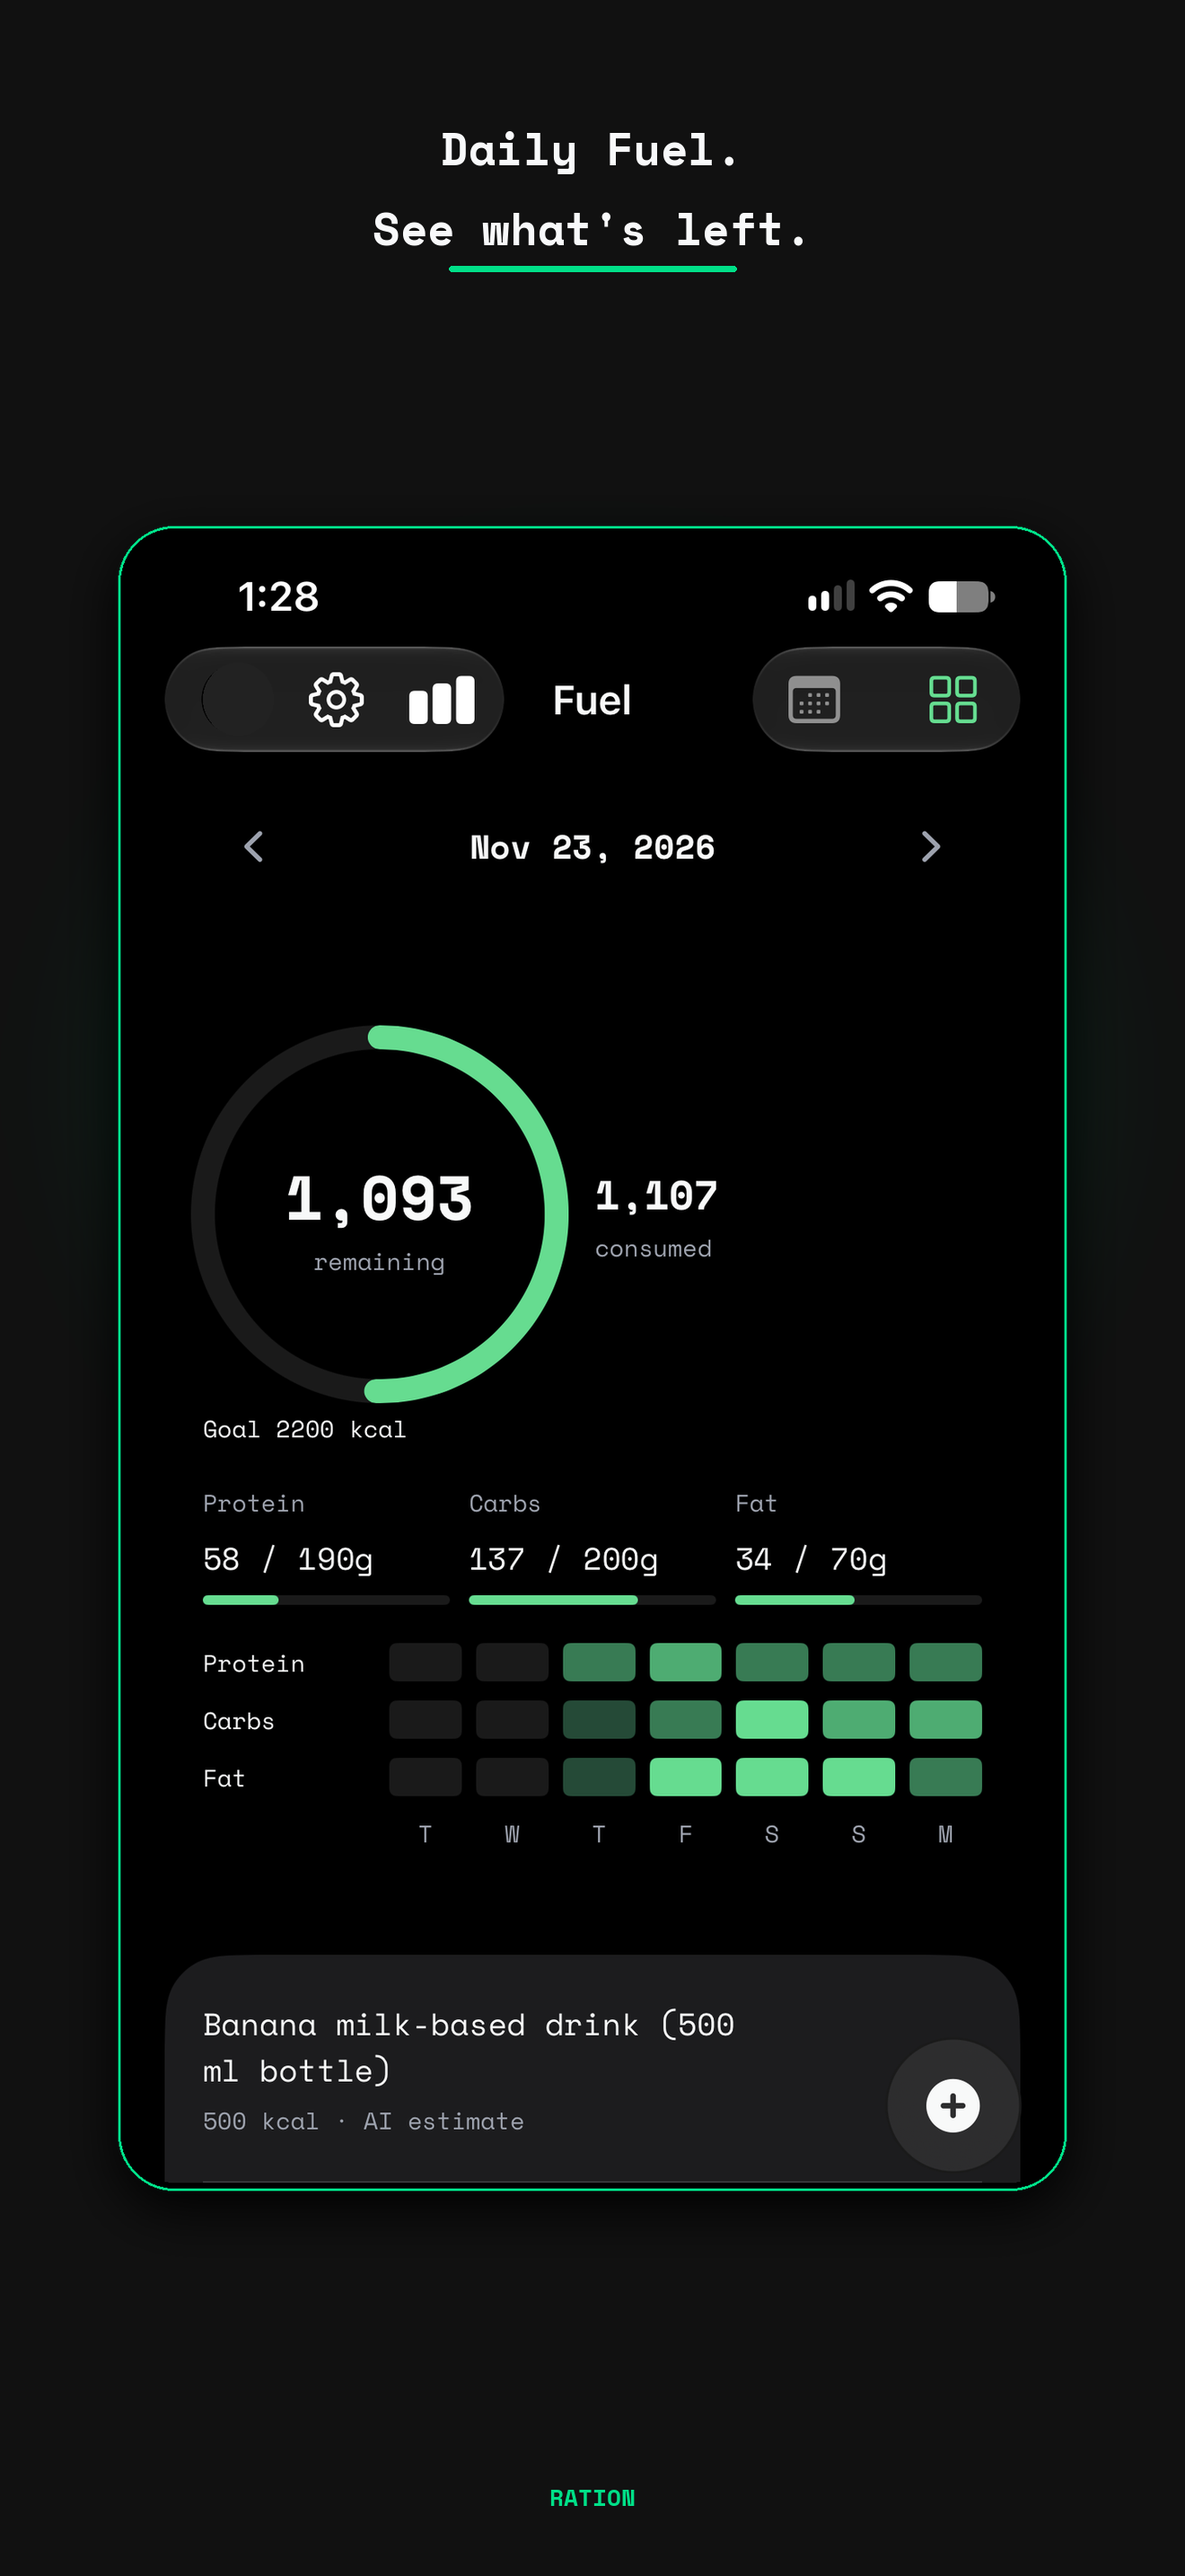
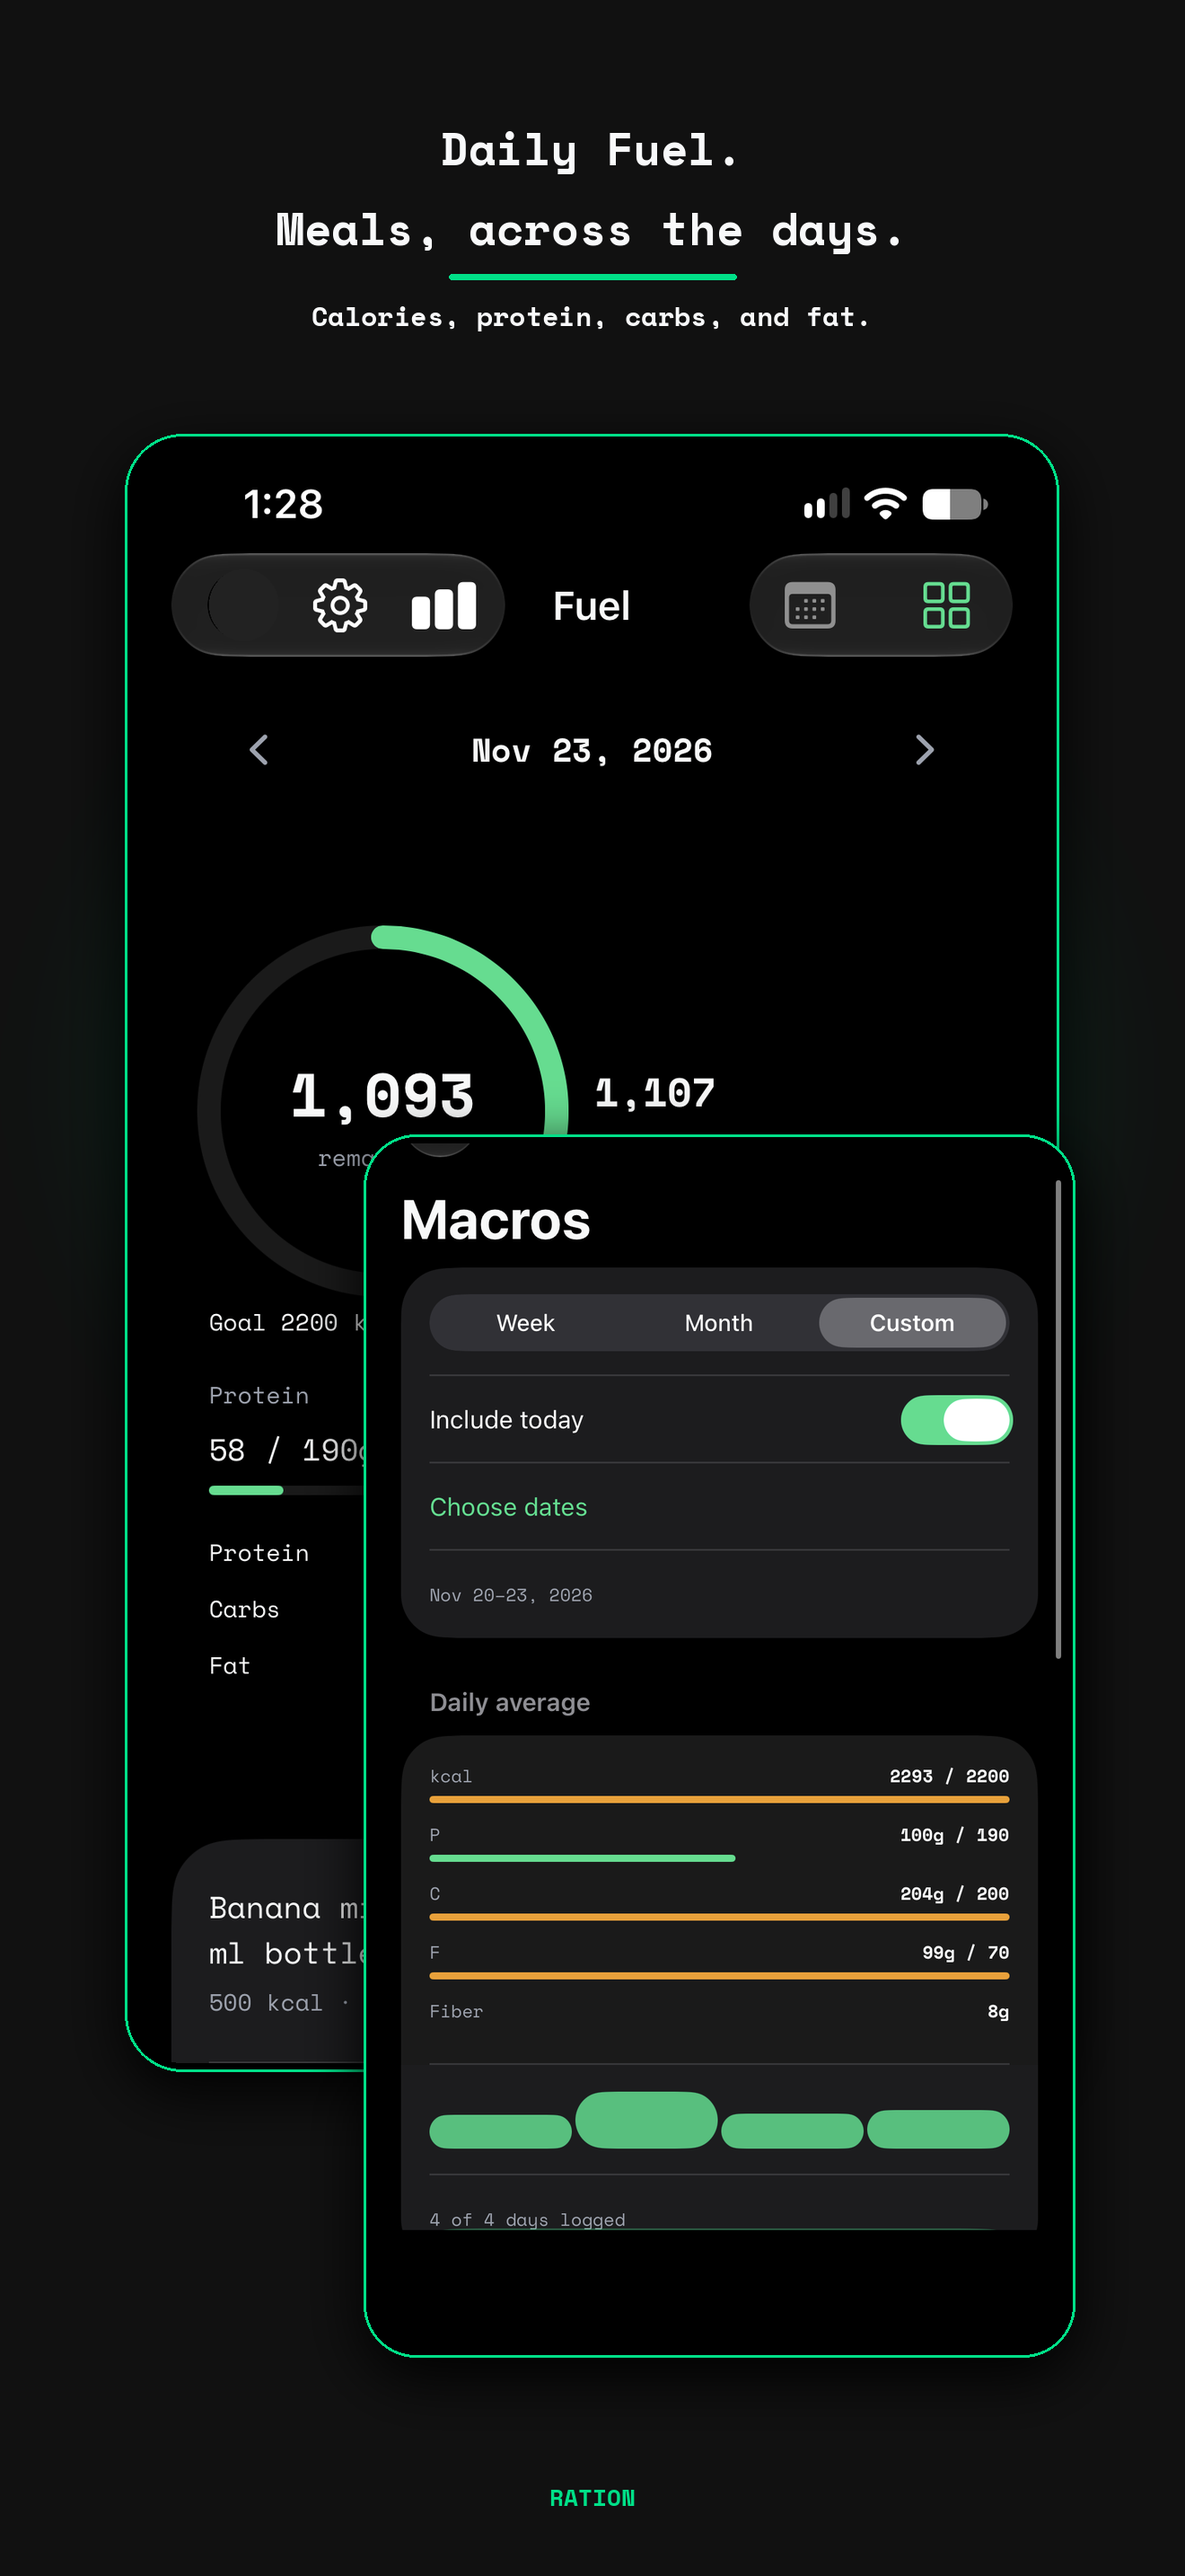
Revamp the iOS 1.6 App Store screenshots
Docs: marketing/appstore/uk/STORYBOARD.md and UPLOAD.md for the revamped 1.6 screenshot set

diff --git a/marketing/appstore/uk/STORYBOARD.md b/marketing/appstore/uk/STORYBOARD.md
@@ -1,21 +1,21 @@
 # iOS 1.6 screenshot set — upload this
 
-App Store Connect → Media Manager → **iPhone 6.9" Display**. Upload only [`framed/6.9/1.6/`](framed/6.9/1.6/), in this order. Each file is **1320×2868** PNG, RGB, no alpha. Apple shows the first three in search.
+App Store Connect → Media Manager → **iPhone 6.9" Display**. Upload only [`framed/6.9/1.6/`](framed/6.9/1.6/), in this order. Each file is **1320×2868** PNG, RGB, no alpha. Apple shows the first three in search. The filename order is unchanged. Search still gets the job, then the AI choice, then the import.
 
 | Order | File | Caption |
 |------:|------|---------|
-| 1 | [`01-daily-fuel.png`](framed/6.9/1.6/01-daily-fuel.png) | Daily Fuel. / See what's left. |
-| 2 | [`02-agent-sets-fuel.png`](framed/6.9/1.6/02-agent-sets-fuel.png) | Your agent sets / Daily Fuel. You confirm. |
-| 3 | [`03-import.png`](framed/6.9/1.6/03-import.png) | Save recipes from / TikTok, Reels & the web |
-| 4 | [`04-scan.png`](framed/6.9/1.6/04-scan.png) | Scan a receipt / or the fridge |
-| 5 | [`05-galley.png`](framed/6.9/1.6/05-galley.png) | See what you can cook / with what's here |
-| 6 | [`06-manifest.png`](framed/6.9/1.6/06-manifest.png) | Plan the week. / AI fills the days. |
-| 7 | [`07-supply.png`](framed/6.9/1.6/07-supply.png) | Shop only what / you're still missing |
-| 8 | [`08-hub.png`](framed/6.9/1.6/08-hub.png) | The whole kitchen. / One screen. |
+| 1 | [`01-daily-fuel.png`](framed/6.9/1.6/01-daily-fuel.png) | Daily Fuel. / Meals, across the days. |
+| 2 | [`02-agent-sets-fuel.png`](framed/6.9/1.6/02-agent-sets-fuel.png) | Any agent can run it. / Or use the one inside. |
+| 3 | [`03-import.png`](framed/6.9/1.6/03-import.png) | Save it from the video. / TikTok, Reels, and the web. |
+| 4 | [`04-scan.png`](framed/6.9/1.6/04-scan.png) | Scan the receipt. / The cupboard updates. |
+| 5 | [`05-galley.png`](framed/6.9/1.6/05-galley.png) | Cook from what's here. / Matched to the cupboard. |
+| 6 | [`06-manifest.png`](framed/6.9/1.6/06-manifest.png) | The week's meals. / For everyone in the kitchen. |
+| 7 | [`07-supply.png`](framed/6.9/1.6/07-supply.png) | The list writes itself. / From the meals you planned. |
+| 8 | [`08-hub.png`](framed/6.9/1.6/08-hub.png) | The whole kitchen. / Stock, meals, and today. |
 
-Slide 3 is the existing TikTok import frame, copied unchanged from `framed/6.9/03-import.png`. Slides 4 and 5 are the existing scan and galley frames. Slide 2 keeps the confirmation chat and adds one Space Mono line, with no logos: `Use Grok, Hermes, Dots, or Claude.` Slide 6 is the current week Manifest. Slide 7 is the existing supply frame with a cutout of Saved lists (Staples, Pets, Household Goods). Slide 8 is the Hub screen. `08-your-agent.png` is not in this set.
+Slide 1 is today's Fuel log, with the Macros screen over it: week, month, or a custom range, the daily average, and how many days were logged. The line under the rule says what the words mean: `Calories, protein, carbs, and fat.` Slide 2 shows the choice. A person's own agent can run the kitchen, and Ask Ration is the assistant inside the app. The names under the rule are type only, with no logos: `Grok · Hermes · Dots · Claude.` Slide 3 keeps the TikTok import photograph and replaces the caption. Slide 4 is the receipt scan, through to the file upload. Slide 5 is Galley, meals matched to what is in the cupboard. Slide 6 is one week for the people who share the kitchen. Slide 7 is the supply list the plan writes. The line under the rule is `Share it, or send it out.` Slide 8 is the Hub: stock, meals, and today.
 
-Leave these in the repo and do **not** upload them for 1.6 (same names under `framed/6.5/` as well): `01-hub.png`, `02-macros.png`, `06-plan.png`, `09-ask.png`, `10-theme.png`. The new Hub frame is `framed/6.9/1.6/08-hub.png`, not the older `01-hub.png`.
+Leave these in the repo and do **not** upload them for 1.6 (same names under `framed/6.5/` as well): `01-hub.png`, `02-macros.png`, `06-plan.png`, `09-ask.png`, `10-theme.png`. The Hub frame for this set is `framed/6.9/1.6/08-hub.png`, not the older `01-hub.png`.
 
 # Previous storyboard — English (U.K.)
 

diff --git a/marketing/appstore/uk/UPLOAD.md b/marketing/appstore/uk/UPLOAD.md
@@ -4,18 +4,20 @@
 
 Upload [`framed/6.9/1.6/`](framed/6.9/1.6/) into **iPhone 6.9" Display**. Do not upload `framed/6.5/` for this submission, and do not upload the older `framed/6.9/01-hub.png` … `10-theme.png` set.
 
-| Order | File | Pixels |
-|------:|------|--------|
-| 1 | `01-daily-fuel.png` | 1320×2868 |
-| 2 | `02-agent-sets-fuel.png` | 1320×2868 |
-| 3 | `03-import.png` | 1320×2868 |
-| 4 | `04-scan.png` | 1320×2868 |
-| 5 | `05-galley.png` | 1320×2868 |
-| 6 | `06-manifest.png` | 1320×2868 |
-| 7 | `07-supply.png` | 1320×2868 |
-| 8 | `08-hub.png` | 1320×2868 |
+The filename order is the upload order. It stays in this order because the first three are what search shows: the job, the AI choice, then the import.
 
-PNG, RGB, no alpha. `03-import.png` is the existing TikTok import frame. `02-agent-sets-fuel.png` adds `Use Grok, Hermes, Dots, or Claude.` under the headline, in type only. `06-manifest.png` is the current week Manifest. `07-supply.png` is the existing supply frame plus a Saved lists cutout. `08-hub.png` is the Hub screen. Do not upload `08-your-agent.png`.
+| Order | File | Caption | Pixels |
+|------:|------|---------|--------|
+| 1 | `01-daily-fuel.png` | Daily Fuel. / Meals, across the days. | 1320×2868 |
+| 2 | `02-agent-sets-fuel.png` | Any agent can run it. / Or use the one inside. | 1320×2868 |
+| 3 | `03-import.png` | Save it from the video. / TikTok, Reels, and the web. | 1320×2868 |
+| 4 | `04-scan.png` | Scan the receipt. / The cupboard updates. | 1320×2868 |
+| 5 | `05-galley.png` | Cook from what's here. / Matched to the cupboard. | 1320×2868 |
+| 6 | `06-manifest.png` | The week's meals. / For everyone in the kitchen. | 1320×2868 |
+| 7 | `07-supply.png` | The list writes itself. / From the meals you planned. | 1320×2868 |
+| 8 | `08-hub.png` | The whole kitchen. / Stock, meals, and today. | 1320×2868 |
+
+PNG, RGB, no alpha. Slide 1 adds `Calories, protein, carbs, and fat.` Slide 2 names `Grok · Hermes · Dots · Claude` in type only, and shows Ask Ration beside the person's own agent. Slide 7 adds `Share it, or send it out.` Do not upload `08-your-agent.png`.
 
 ## Screenshots — fix “dimensions are wrong”
 
